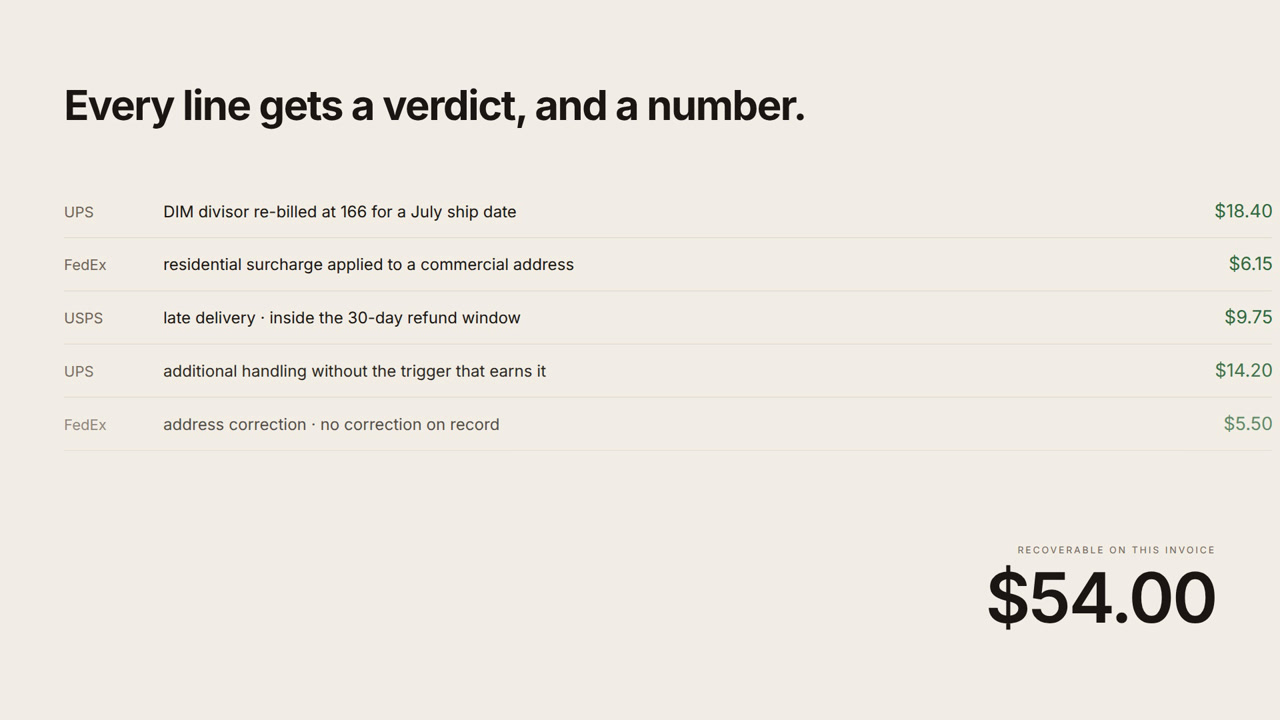
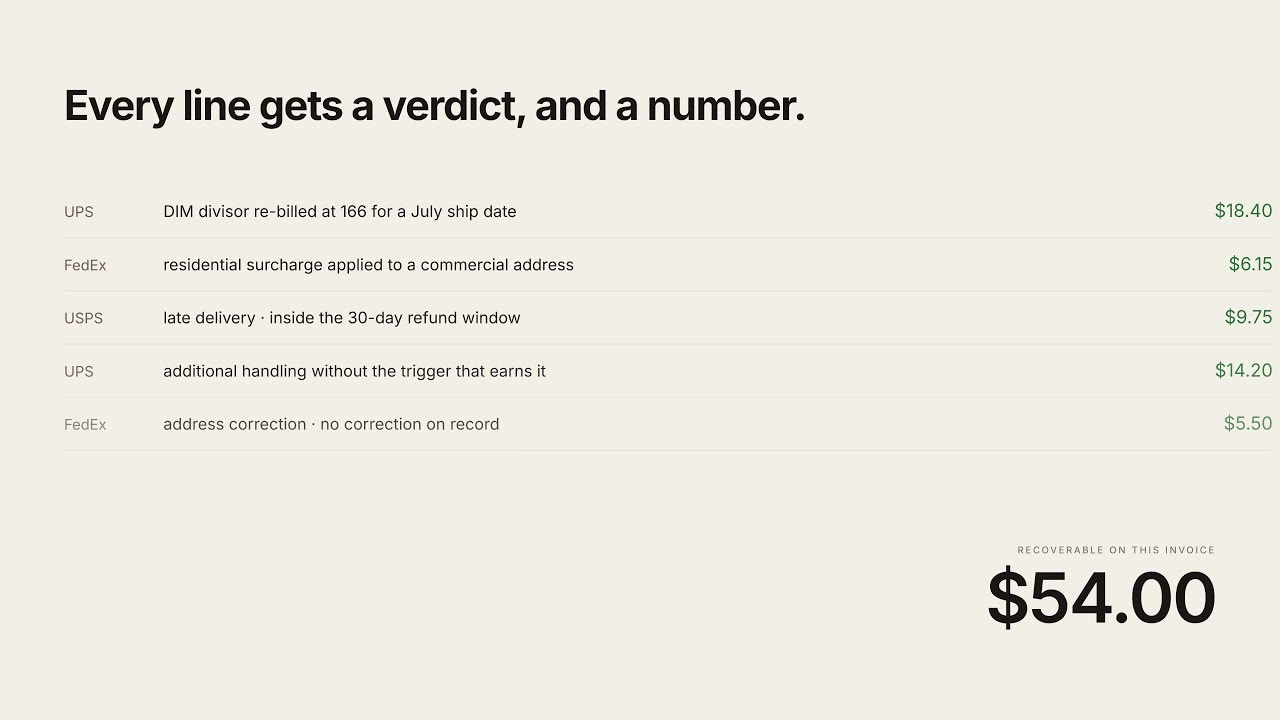
launch video: embed parcelproof (UTmaWW8U4RA)
Uploaded UTmaWW8U4RA (23s, public) and embedded it: poster youtube maxresdefault, registry entry via scripts/launch-video/embed.mjs.

diff --git a/src/products/launch-videos.ts b/src/products/launch-videos.ts
@@ -76,11 +76,11 @@ export const LAUNCH_VIDEOS: readonly LaunchVideo[] = [
   },
   {
     slug: "parcelproof",
-    youtubeId: "pVItC4gjXJc",
+    youtubeId: "UTmaWW8U4RA",
     posterPath: "/launch-videos/parcelproof.jpg",
     title: "Introducing ParcelProof: carrier invoice DIM-weight and surcharge audit for UPS, FedEx and USPS.",
     durationSeconds: 23,
-    publishedAt: "2026-10-24",
+    publishedAt: "2026-10-25",
   },
   {
     slug: "caseproof",
